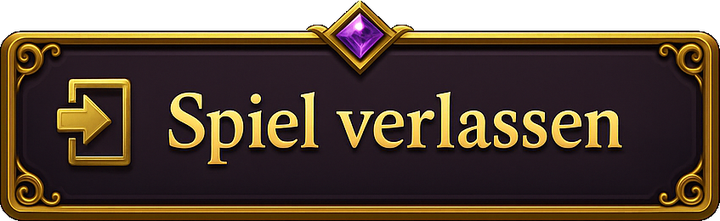
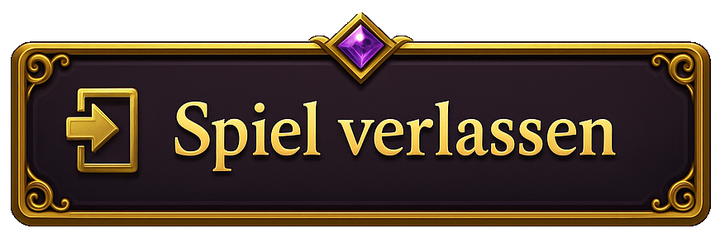
Spieltisch-Buttons: unterer Edelstein nicht mehr abgeschnitten
Beim Zerschneiden des Button-Sets wurde der untere Gem gekappt. Neu aus dem
Quellbild geschnitten mit vollem Ober-/Unterrand und einheitlicher Zielhöhe
(720x238) -> beide Edelsteine bei allen vier komplett. CSS-aspect-ratio auf
720/238 angepasst, Versionen gebumpt. Im Spiel verifiziert.

diff --git a/index.html b/index.html
@@ -1042,9 +1042,9 @@
   .action-dock { display: flex; justify-content: center; margin-top: 6px; min-height: 104px; align-items: center; }
   /* "Stiche ansagen": fertige Grafik (Text ist Teil des Bildes). */
   .bid-open-btn {
-    background: url('lobby/ui-bid.png?v=3') center/100% 100% no-repeat;
+    background: url('lobby/ui-bid.png?v=4') center/100% 100% no-repeat;
     border: none; box-shadow: none; color: transparent; font-size: 0; padding: 0;
-    width: clamp(120px, 29vw, 224px); aspect-ratio: 720 / 221;
+    width: clamp(120px, 29vw, 224px); aspect-ratio: 720 / 238;
     display: inline-block; cursor: pointer;
     animation: bidPulse 1.9s ease-in-out infinite;
   }
@@ -1266,9 +1266,9 @@
   /* "Alle Karten": gemalte Pille als Hintergrund */
   .hand-view-btn {
     position: static; z-index: 6;
-    border: none; box-shadow: none; background: url('lobby/ui-allcards.png?v=3') center/100% 100% no-repeat;
+    border: none; box-shadow: none; background: url('lobby/ui-allcards.png?v=4') center/100% 100% no-repeat;
     color: transparent; font-size: 0; padding: 0; cursor: pointer;
-    width: clamp(120px, 29vw, 224px); aspect-ratio: 720 / 221; display: inline-block;
+    width: clamp(120px, 29vw, 224px); aspect-ratio: 720 / 238; display: inline-block;
   }
   .hand-view-btn:hover { filter: brightness(1.1); }
   /* Steuer-Pillen mit gemalten Rahmen */
@@ -1306,10 +1306,10 @@
   .nav-btn {
     border: none; padding: 0; cursor: pointer; color: transparent; font-size: 0;
     background: center/100% 100% no-repeat;
-    width: clamp(150px, 45vw, 300px); aspect-ratio: 720 / 221;
+    width: clamp(150px, 45vw, 300px); aspect-ratio: 720 / 238;
   }
-  .nav-btn.nav-leave { background-image: url('lobby/nav-leave.png?v=2'); }
-  .nav-btn.nav-pause { background-image: url('lobby/nav-pause.png?v=2'); }
+  .nav-btn.nav-leave { background-image: url('lobby/nav-leave.png?v=3'); }
+  .nav-btn.nav-pause { background-image: url('lobby/nav-pause.png?v=3'); }
   .nav-btn:hover { filter: brightness(1.08); }
 
   /* Endstand-Rangliste (Spielende) */
